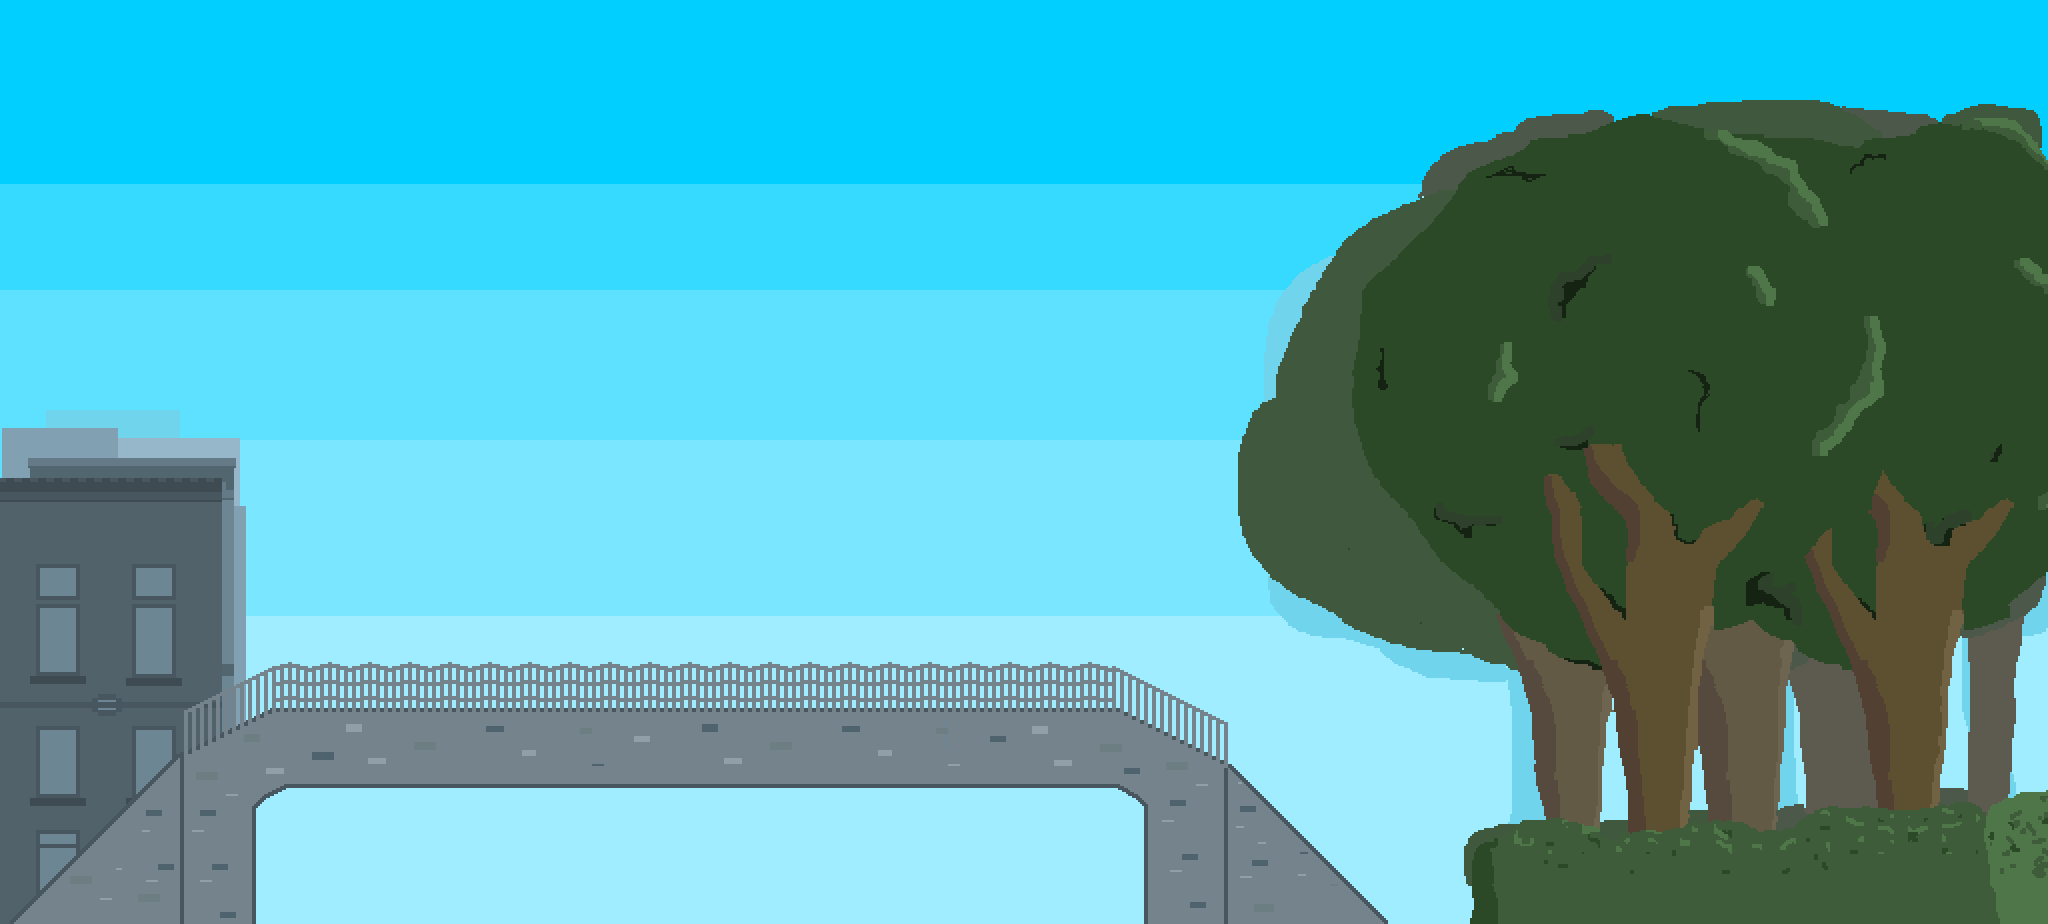
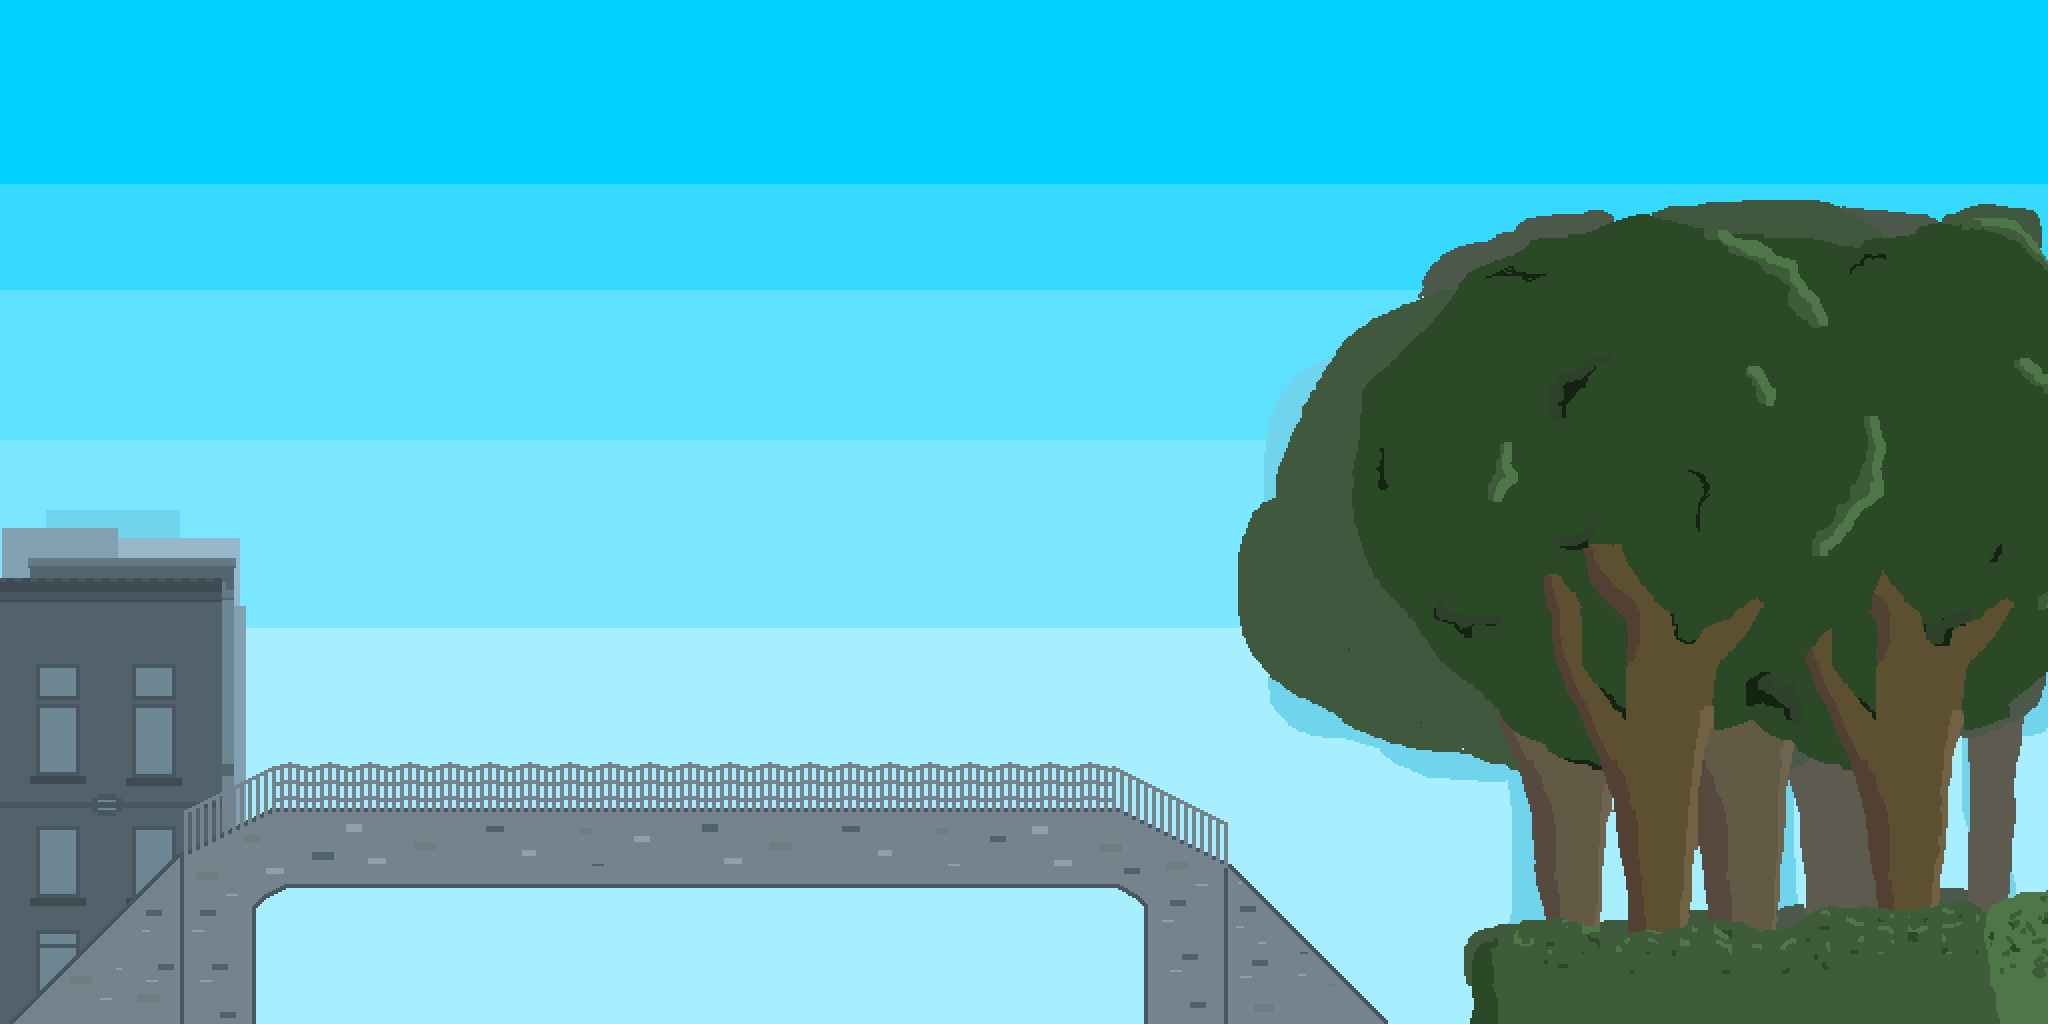
enlevecom+placementFond

diff --git a/src/scripts/app.js b/src/scripts/app.js
@@ -118,8 +118,8 @@ class MainWorld extends Phaser.Scene {
 
         // chargement des cielles
         this.cielle1 = this.add.tileSprite(-140, -286, 4396, 1940, 'cielVille').setOrigin(0, 0);
-        this.cielle2 = this.add.tileSprite(4056, -200, 2048, 924, 'cielleParc').setOrigin(0, 0);
-        this.cielle3 = this.add.tileSprite(6090, -200, 880, 924, 'cielleParc_se').setOrigin(0, 0).setFlipX(1);
+        this.cielle2 = this.add.tileSprite(4056, -286, 2048, 1024, 'cielleParc').setOrigin(0, 0);
+        this.cielle3 = this.add.tileSprite(6090, -286, 880, 1024, 'cielleParc_se').setOrigin(0, 0).setFlipX(1);
 
         // exec quand le jeu est chargé une premiere fois
         this.house = this.add.tileSprite(-40, 226, 4096, 512, 'background2').setOrigin(0, 0);
@@ -398,7 +398,7 @@ class MainWorld extends Phaser.Scene {
         let eau = this.physics.add.staticImage(306, 758, null)
             .setSize(92, 48)
             .setVisible(false);
-/*
+
         this.physics.add.overlap(player, eau, () => {
             const overlay = this.add.image(0, 0, "eau_vue").setOrigin(0, 0);
 
@@ -407,7 +407,7 @@ class MainWorld extends Phaser.Scene {
 
             overlay.setScrollFactor(0);
         }, null, this);
-*/
+
         let overlayVisible = false;
         let overlay2 = null;
 
